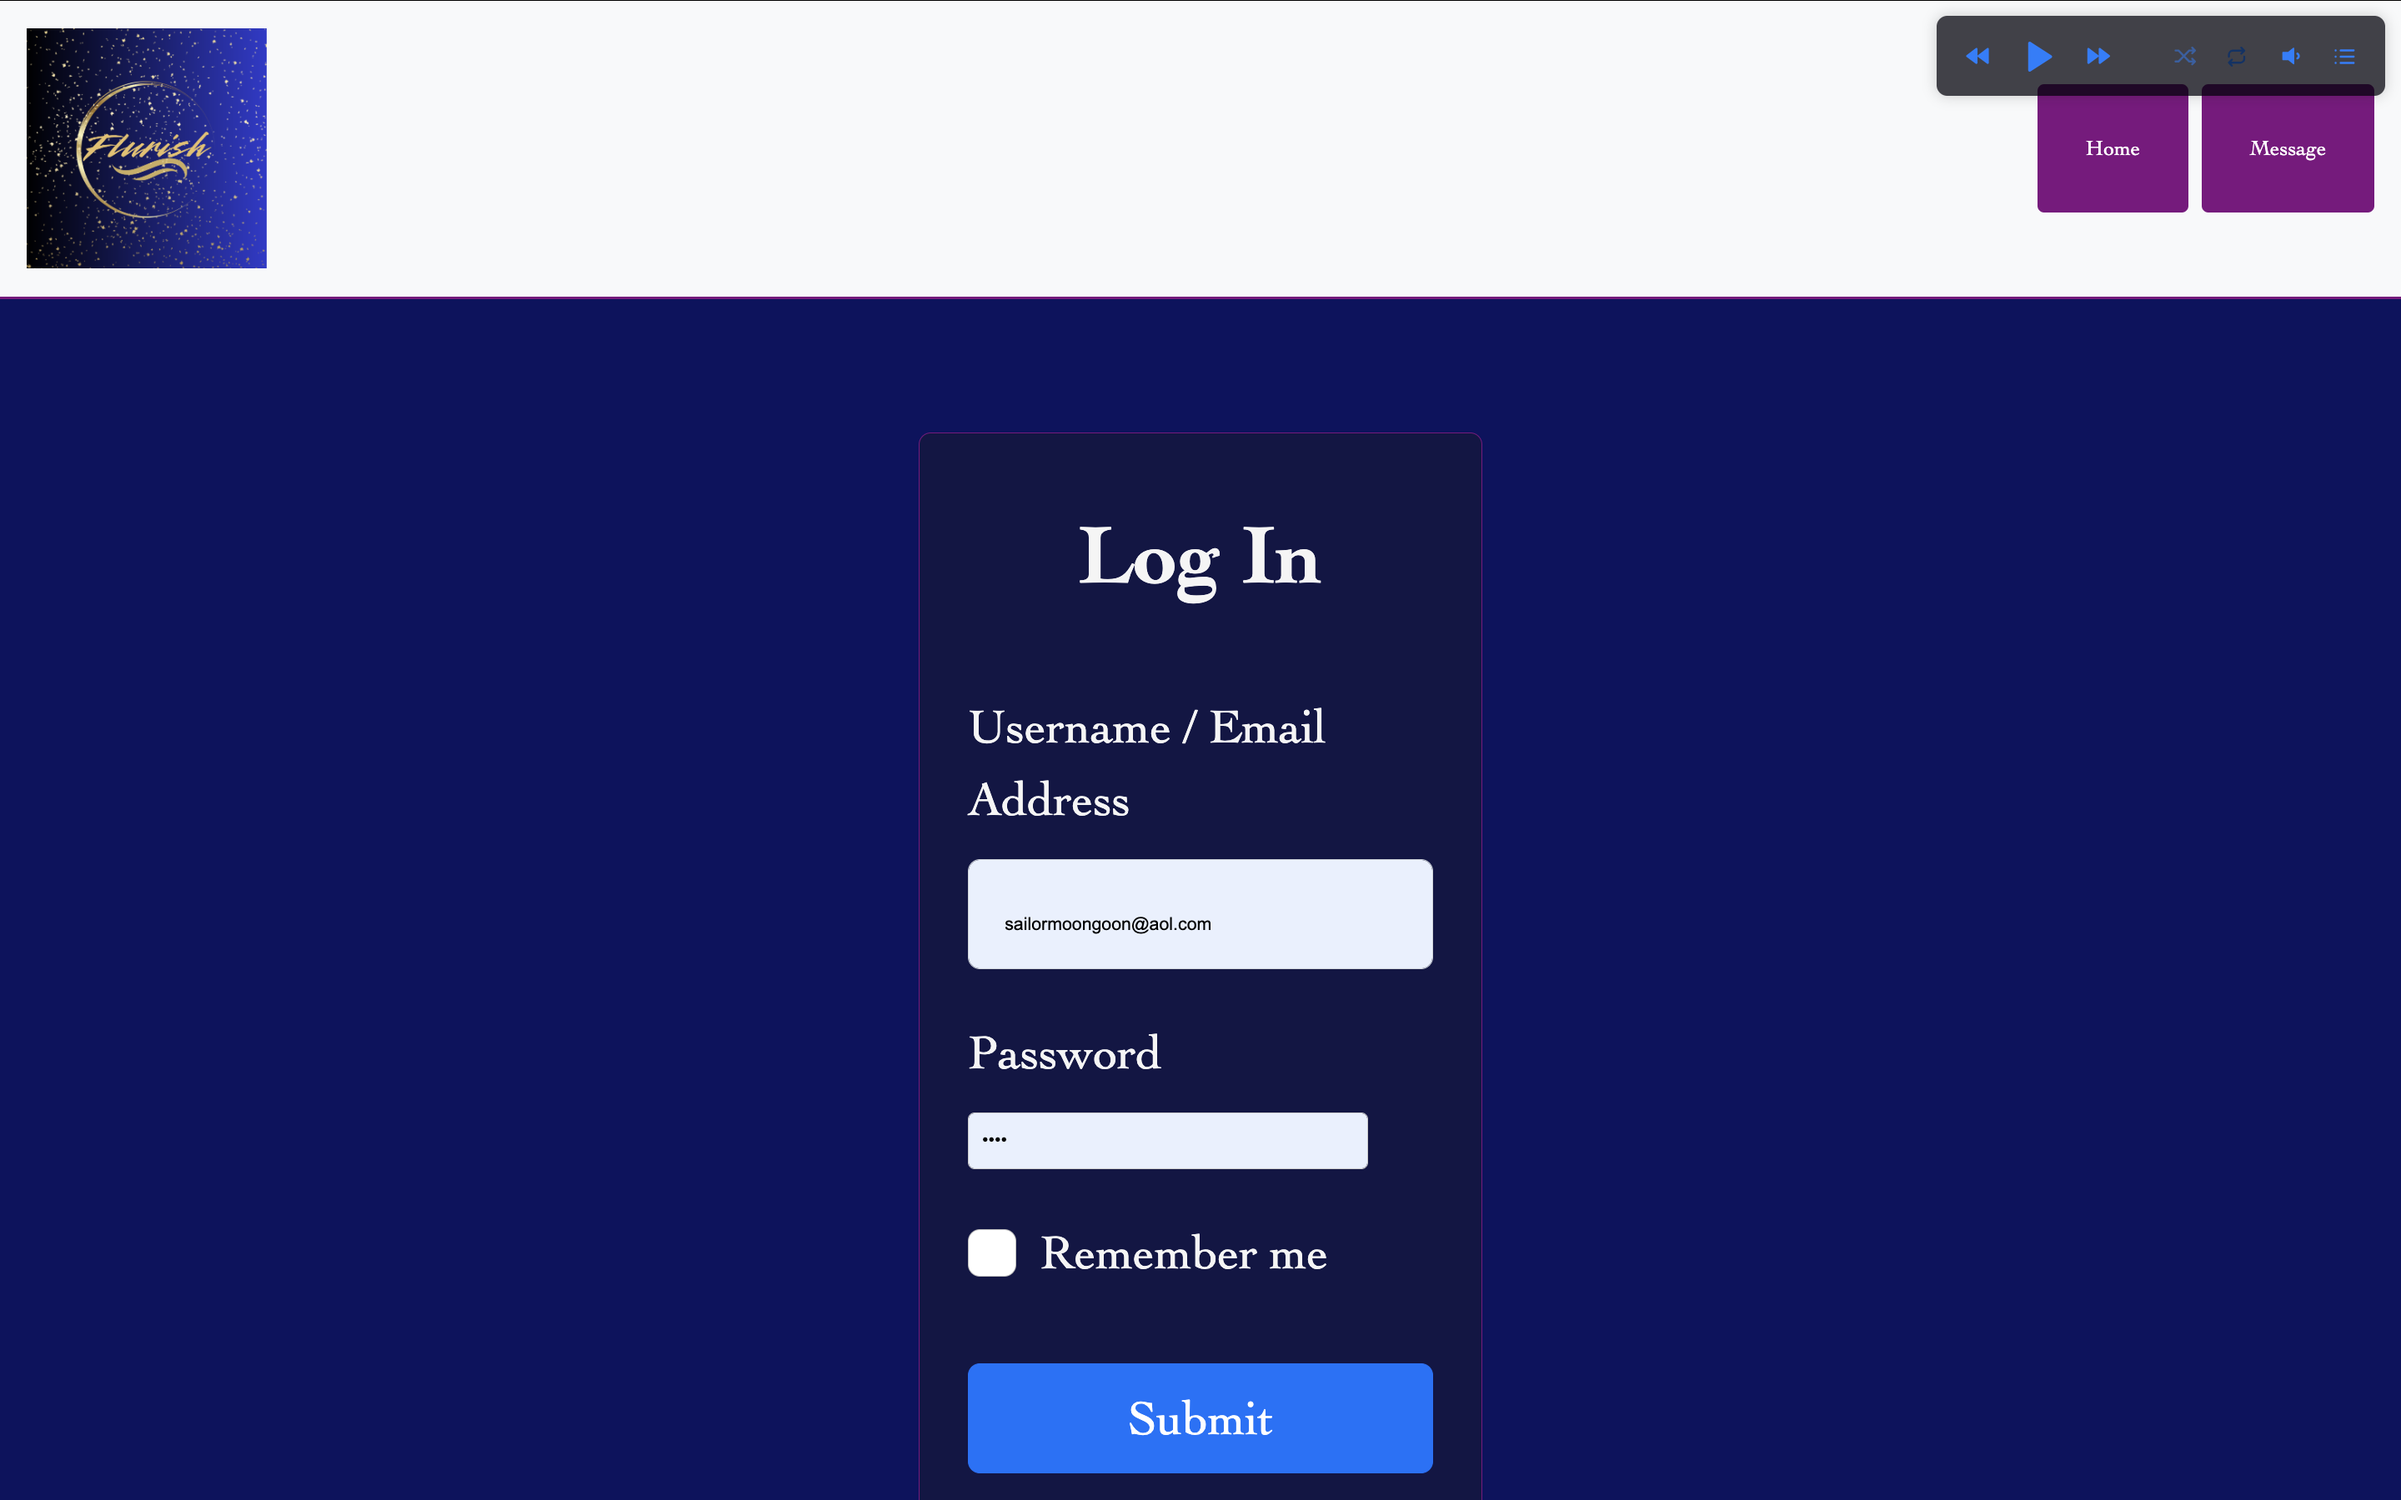
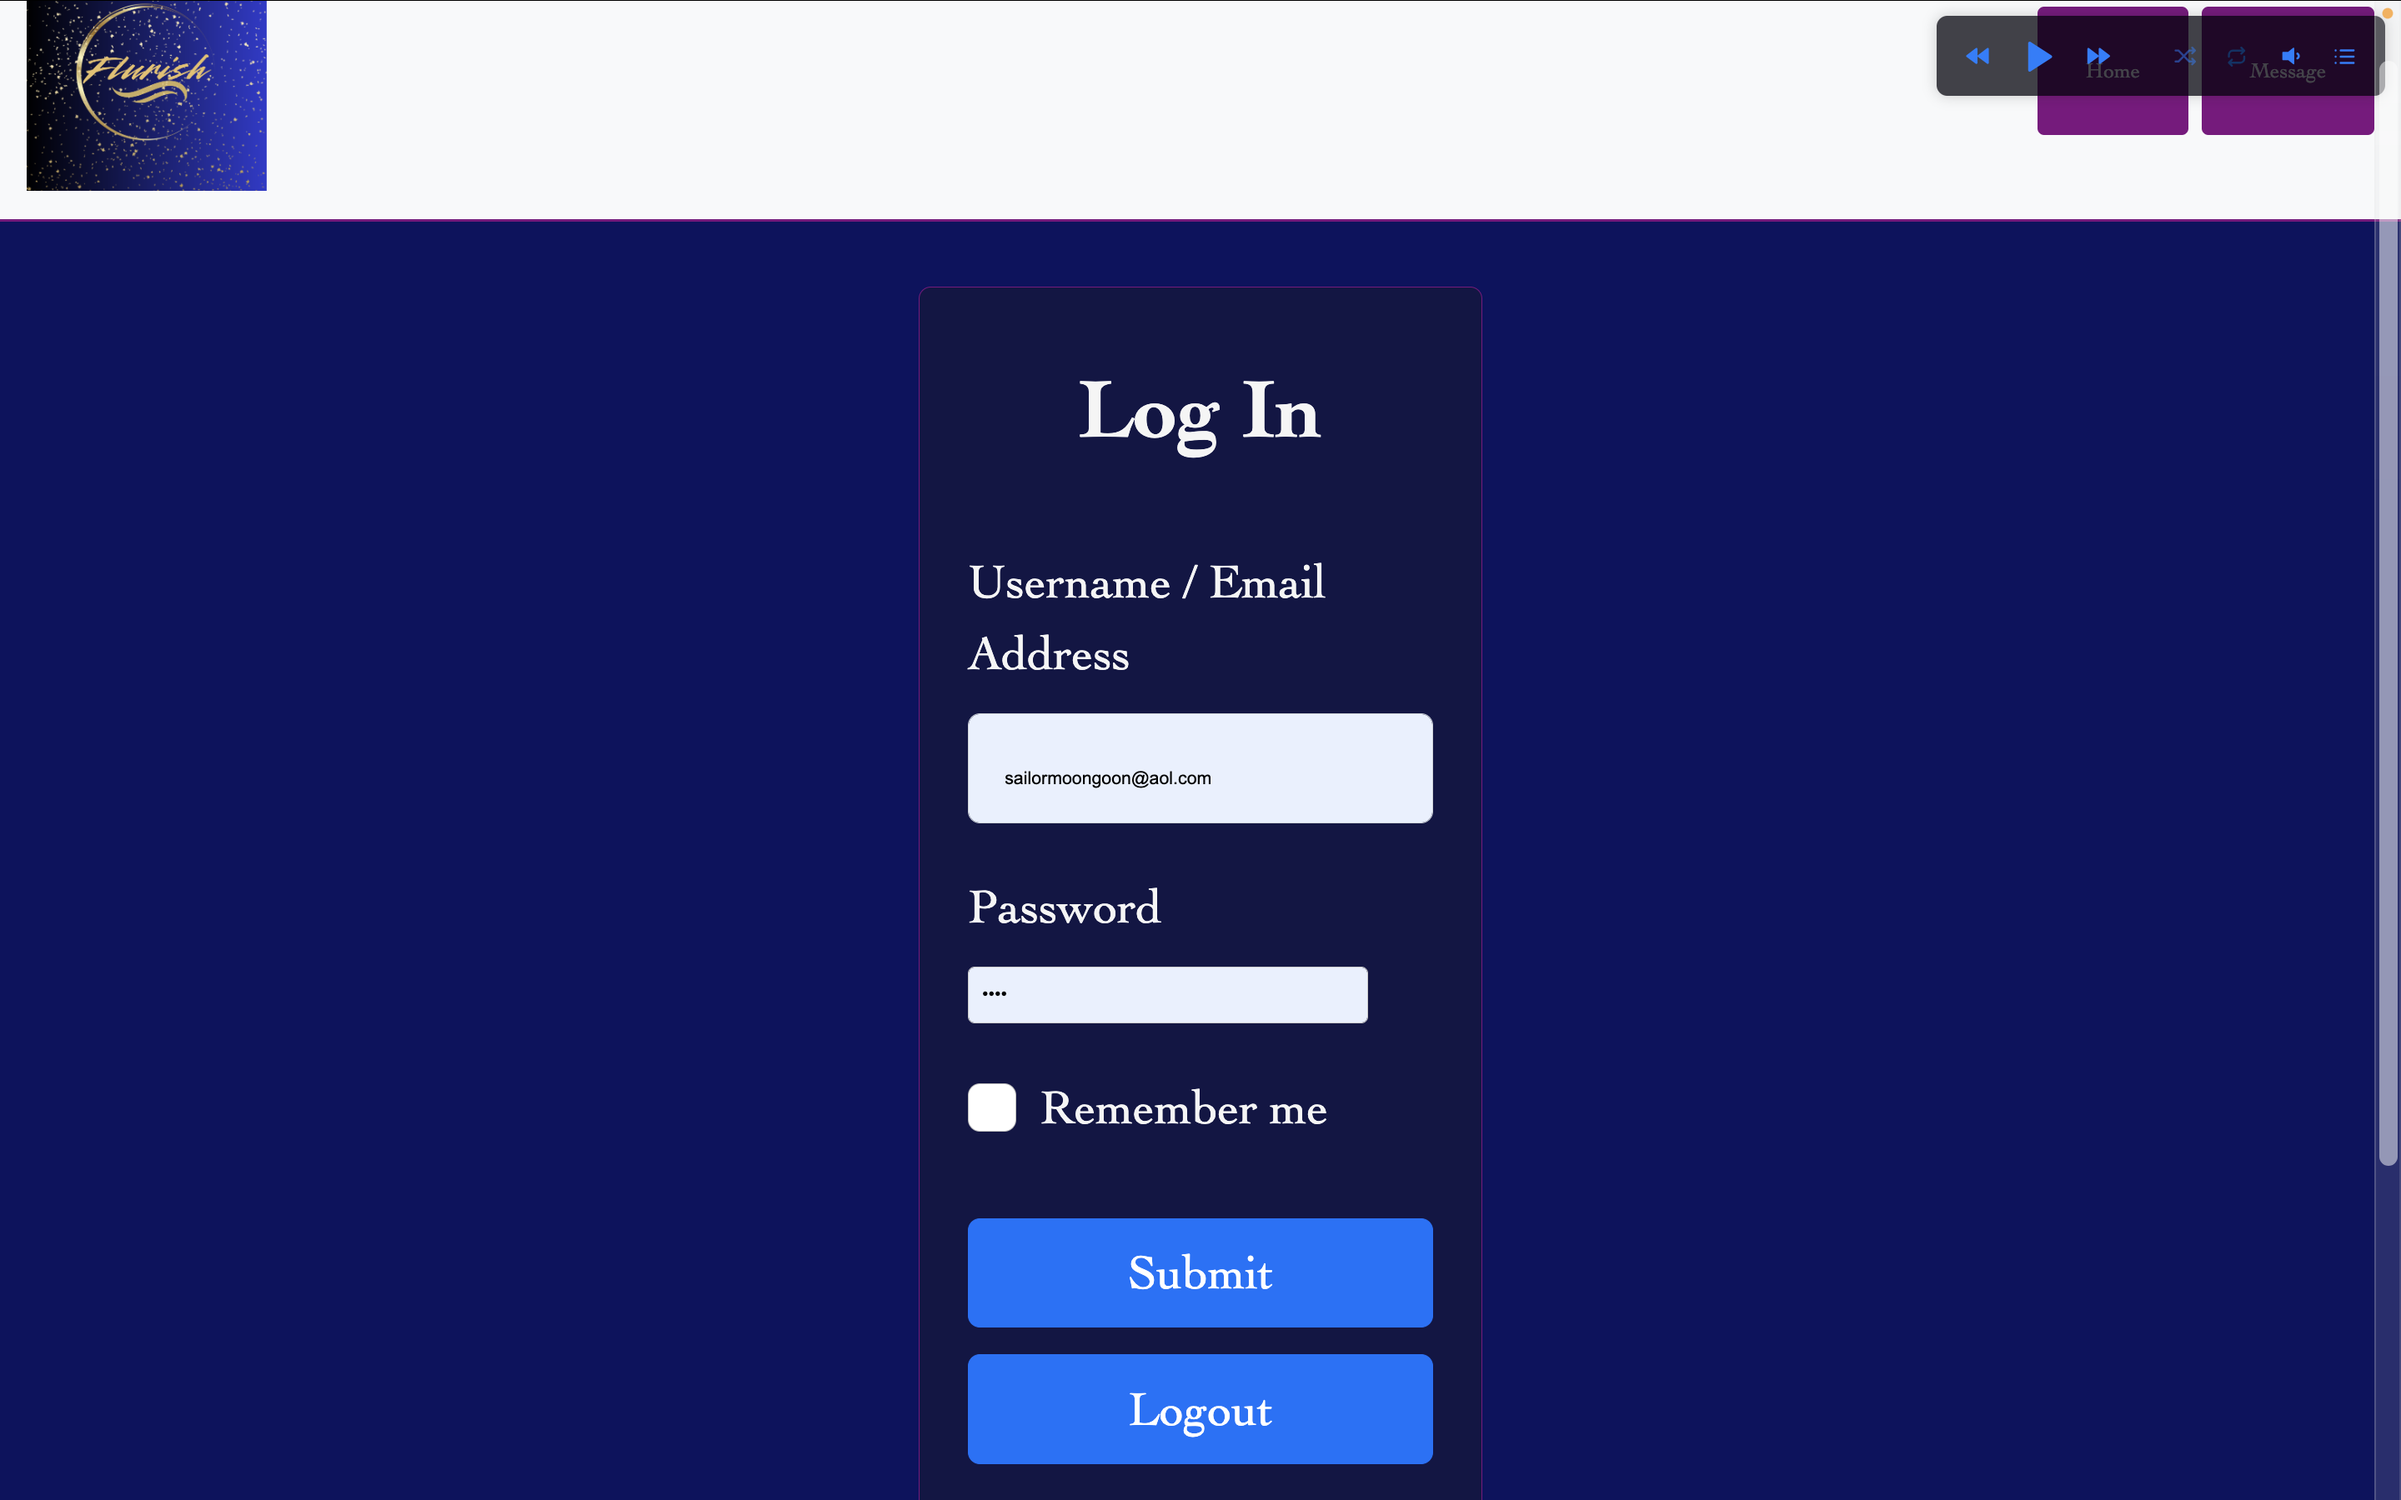
last min changes

Changed region(s): [[0.0, 0.0, 1.0, 1.0], [0.4062, 0.3422, 0.5938, 0.7778], [0.4062, 0.8089, 0.5938, 0.9956]]

diff --git a/js/login.js b/js/login.js
@@ -1,37 +1,14 @@
-document.addEventListener("DOMContentLoaded", () => {
-    const sendTextButton = document.getElementById("sendTextButton");
-    const textInput = document.getElementById("textInput");
-
-    // Ensure elements are properly selected
-    console.log("Send Text Button:", sendTextButton);
-    console.log("Text Input:", textInput);
-
-    // Event listener for the send button
-    sendTextButton.addEventListener("click", async () => {
-        const messageText = textInput.value.trim(); // Get input value and trim whitespace
-        if (!messageText) {
-            alert("Message cannot be empty.");
+document.addEventListener("DOMContentLoaded", ()=>{
+    loginButton.addEventListener("click",async ()=>{
+        const result = await login(
+            username.value,
+            password.value
+        );
+        if(!result || !result.hasOwnProperty("statusCode") || result.statusCode != 200){
+            output.innerText = "Login Failed";
             return;
         }
-
-        try {
-            // Call the sendText function to post the message
-            const response = await sendText(messageText);
-            console.log("API Response:", response);
-
-            // Check if the response contains an error
-            if (!response || response.error) {
-                alert("Failed to send message. Please try again.");
-                return;
-            }
-
-            // Success message and redirect
-            alert("Message sent successfully.");
-            window.location.href = "messages.html";
-        } catch (error) {
-            console.error("Error sending message:", error);
-            alert("An error occurred while sending your message.");
-        }
-    });
-});
- 
+        //SUCCESS
+        window.location.href = "messages.html";
+    });//end click
+}); //end loaded

diff --git a/login.html b/login.html
@@ -143,6 +143,7 @@
                 </div>
                 <div class="mb-3">
                   <button id="loginButton" class="btn btn-primary w-100">Submit</button>
+                  <button id="loginButton" class="btn btn-primary w-100">Logout</button>
                 </div>
                 <div class="d-flex justify-content-end">
                   <a href="#">Forgot password?</a>
